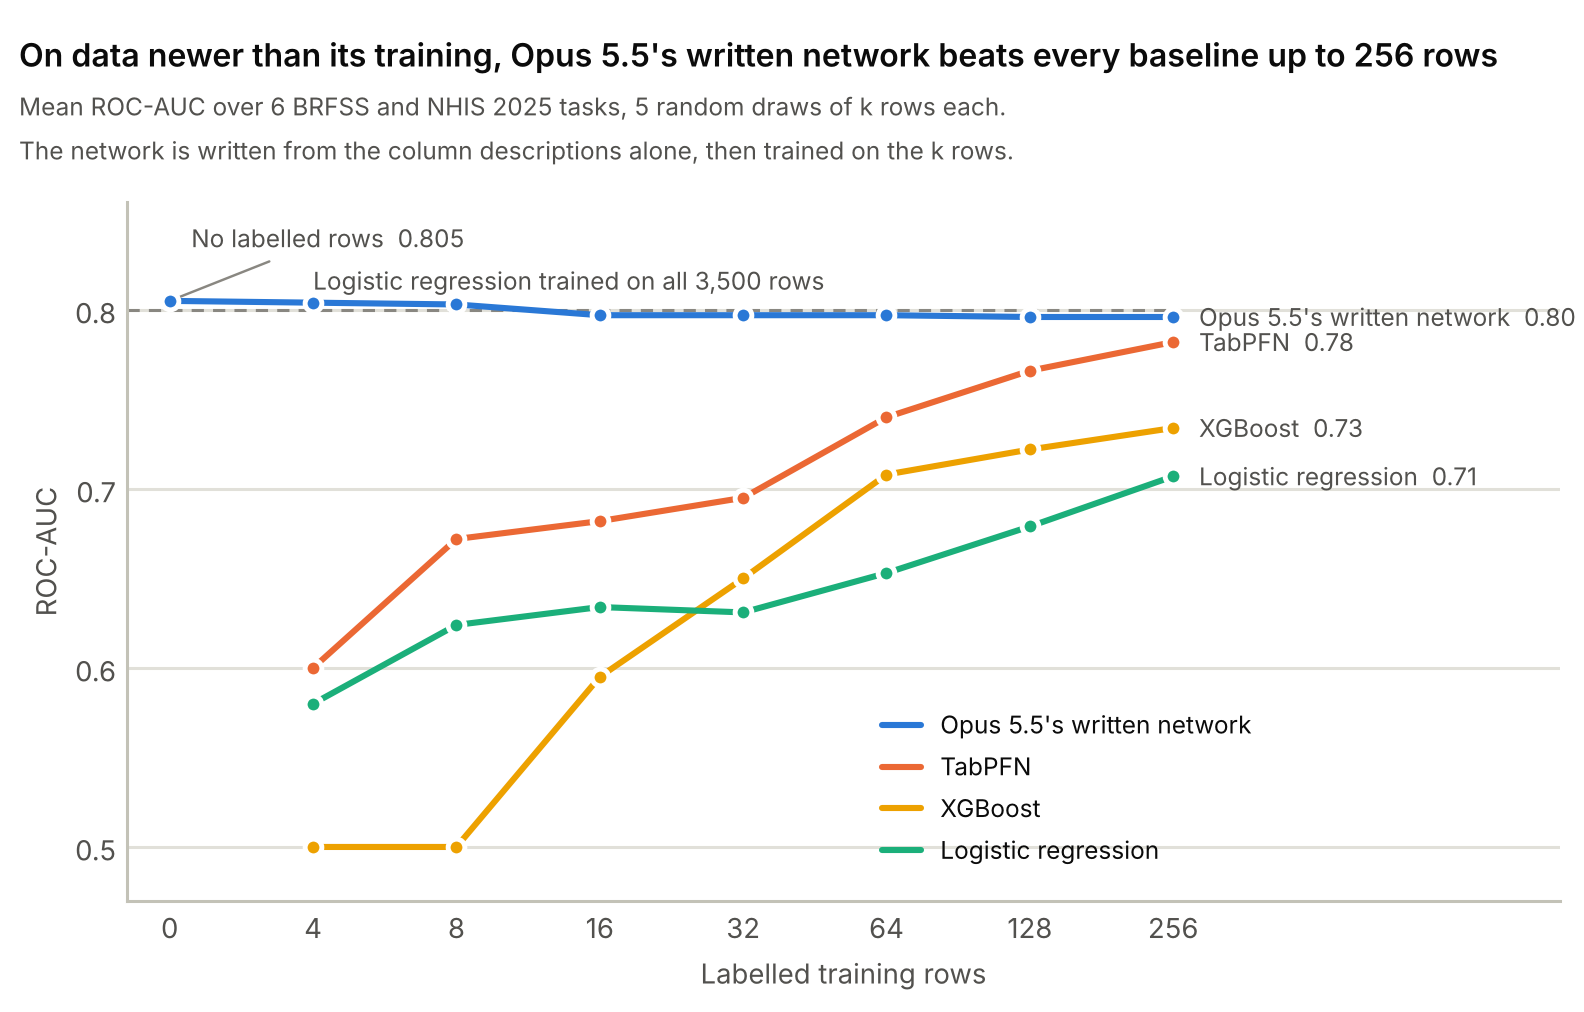
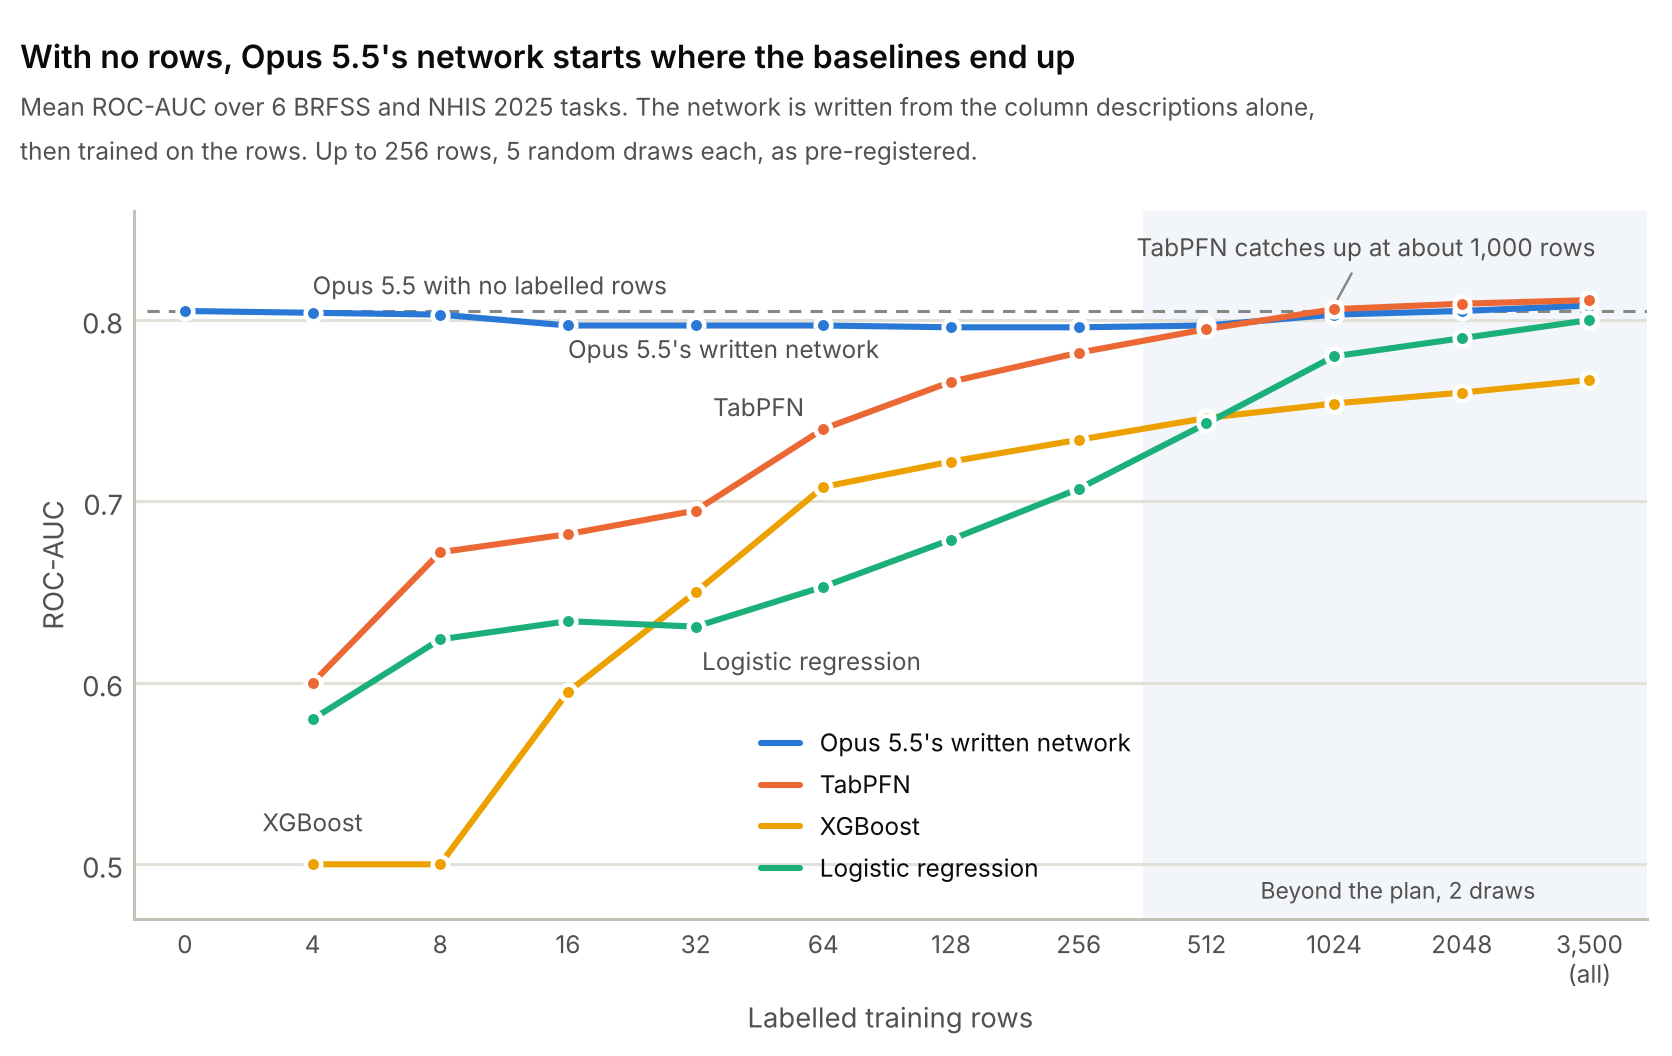
Extend first chart to all 3,500 rows, replace second figure with a before-and-after section
Claude-Session: https://claude.ai/code/session_01UWaSojPvKWekq97KCH9UDq

diff --git a/blog/llm-written-models/index.html b/blog/llm-written-models/index.html
@@ -52,7 +52,7 @@
   table.tasks td.n { color: var(--ink2); }
   .note { font-family: var(--sans); font-size: 13px; color: var(--muted); margin-top: 10px; }
 
-  .formula { font-size: 19px; margin: 6px 0 22px; overflow-x: auto; overflow-y: hidden; padding: 4px 0; }
+  .formula { font-size: clamp(12px, 1.6vw, 19px); margin: 6px 0 22px; overflow-x: auto; overflow-y: hidden; padding: 4px 0; }
   .written { margin: 28px 0 8px; }
   .written h3 { margin-bottom: 4px; }
   .unit { display: grid; grid-template-columns: minmax(0, 1.1fr) minmax(0, 1fr); gap: 28px; padding: 16px 0; border-bottom: 1px solid var(--rule); align-items: baseline; }
@@ -62,7 +62,7 @@
   .unit .nm { display: block; font-family: var(--sans); font-style: normal; font-size: 13px; color: var(--muted); margin-top: 2px; }
 
   .nums { font-family: var(--sans); border-top: 2px solid var(--ink); margin: 0; }
-  .nums div { display: grid; grid-template-columns: 76px 1fr; gap: 14px; padding: 12px 0; border-bottom: 1px solid var(--rule); align-items: baseline; }
+  .nums div { display: grid; grid-template-columns: 92px 1fr; gap: 14px; padding: 12px 0; border-bottom: 1px solid var(--rule); align-items: baseline; }
   .nums dt { font-size: 24px; font-weight: 600; font-variant-numeric: tabular-nums; letter-spacing: -0.01em; }
   .nums dd { margin: 0; font-size: 15px; color: var(--ink2); line-height: 1.45; }
 
@@ -71,6 +71,17 @@
   figure img { width: 100%; height: auto; display: block; }
   figcaption { font-family: var(--sans); font-size: 14px; color: var(--ink2); max-width: 70ch; margin-top: 8px; line-height: 1.5; }
 
+  .ledger { display: grid; grid-template-columns: minmax(0, 1fr) minmax(0, 1fr); gap: 56px; margin: 8px 0 10px; font-family: var(--sans); }
+  .ledger h3 { color: var(--ink); font-size: 17px; border-top: 2px solid var(--ink); padding-top: 12px; margin-bottom: 4px; }
+  .item { display: grid; grid-template-columns: minmax(0, 1fr) auto auto; column-gap: 14px; row-gap: 8px; padding: 14px 0 16px; border-bottom: 1px solid var(--rule); align-items: baseline; }
+  .item .lab { font-size: 15px; line-height: 1.4; }
+  .item .sub { display: block; font-size: 13px; color: var(--muted); margin-top: 1px; }
+  .item .vals { font-size: 14px; color: var(--ink2); font-variant-numeric: tabular-nums; white-space: nowrap; }
+  .item .d { font-size: 17px; font-weight: 600; font-variant-numeric: tabular-nums; min-width: 4.2em; text-align: right; }
+  .item .track { grid-column: 1 / -1; height: 8px; background: var(--tint); border-radius: 4px; overflow: hidden; }
+  .item .track span { display: block; height: 100%; border-radius: 4px; min-width: 2px; }
+  .item .track .neg { background: #e34948; }
+  .item .track .pos { background: var(--accent); }
   .cols2 { display: grid; grid-template-columns: 1fr 1fr; gap: 56px; }
   .cols2 h3 { color: var(--ink); font-size: 17px; border-top: 2px solid var(--ink); padding-top: 12px; }
   .cols2 ul { margin: 0; padding-left: 20px; }
@@ -78,8 +89,8 @@
   footer { border-top: 1px solid var(--rule); margin-top: 32px; padding: 26px 0 72px; font-family: var(--sans); font-size: 14px; color: var(--ink2); }
   footer p { max-width: 80ch; }
 
-  @media (max-width: 1000px) {
-    .row, .cols2 { grid-template-columns: minmax(0, 1fr); gap: 26px; }
+  @media (max-width: 760px) {
+    .row, .cols2, .ledger { grid-template-columns: minmax(0, 1fr); gap: 26px; }
   }
   @media (max-width: 860px) {
     .wrap { padding: 0 18px; }
@@ -110,13 +121,14 @@
       We asked Claude Opus 5.5 to write predictive models for health-survey tasks from the column descriptions alone,
       with no rows and no labels. On 2025 survey data released after its training cutoff, those models match logistic
       regression trained on 3,500 labelled rows, and they beat TabPFN, XGBoost and logistic regression at every budget
-      up to 256 rows. The knowledge is linear, though, and once written down, a few labelled rows did not improve it.
+      up to 256 rows. TabPFN needs about 1,000 rows to catch up. The knowledge is linear, though, and once written down,
+      a few labelled rows did not improve it.
     </div>
     <dl class="qa">
       <div><dt>Can it write a useful model with no data?</dt>
         <dd><strong>Yes.</strong> 0.805 AUC, the same as logistic regression on 3,500 rows.</dd></div>
       <div><dt>Does that beat a tabular foundation model?</dt>
-        <dd><strong>Yes.</strong> Ahead of TabPFN up to 256 rows, and on 17 of 17 tasks at 4 to 16 rows.</dd></div>
+        <dd><strong>Yes, until about 1,000 rows.</strong> At 4 to 16 rows it wins on 17 of 17 tasks.</dd></div>
       <div><dt>Can it learn by editing its own weights?</dt>
         <dd><strong>Not here.</strong> Its first draft was already as good as 3,500 rows. Editing it with 16 or 64
           labelled rows changed nothing.</dd></div>
@@ -190,22 +202,23 @@
 <section>
   <h2>It starts where the data ends</h2>
   <figure>
-    <a href="fig1_auc_vs_rows.png"><img src="fig1_auc_vs_rows.png" alt="Line chart of ROC-AUC against labelled training rows. Opus 5.5's written network stays near 0.80 from 0 to 256 rows. TabPFN rises from 0.60 to 0.78, XGBoost from 0.50 to 0.73, logistic regression from 0.58 to 0.71. A dashed line at 0.80 marks logistic regression trained on all 3,500 rows."></a>
-    <figcaption>Mean AUC over the six 2025 tasks. With no rows, the written network already sits at the level of
-    logistic regression trained on every row. TabPFN is still below it at 256.</figcaption>
+    <a href="fig1_auc_vs_rows.png"><img src="fig1_auc_vs_rows.png" alt="Line chart of ROC-AUC against labelled training rows, from 0 to all 3,500. Opus 5.5's written network stays near 0.80 throughout. TabPFN rises from 0.60 at 4 rows to 0.78 at 256 and passes the written network at about 1,000 rows, ending at 0.811. Logistic regression reaches 0.80 only with all 3,500 rows. XGBoost ends at 0.77."></a>
+    <figcaption>Mean AUC over the six 2025 tasks. The shaded part goes beyond the pre-registered range, with two
+    draws per point, and was added to see where the data catches up.</figcaption>
   </figure>
   <div class="row">
     <div>
-      <p class="lede">With zero rows the written network scores 0.805. Logistic regression needs all 3,500 rows to
-      reach 0.800.</p>
-      <p>Training the network on the rows, with a pull toward the written weights, keeps it there. Pooled with our
-      pilot (11 more datasets), Opus 5.5's priors beat TabPFN at 4 to 16 rows on 17 of 17 tasks, and on 13 of 13 once
-      the memorised datasets are removed.</p>
+      <p class="lede">With zero rows the written network scores 0.805. TabPFN needs about 1,000 labelled rows to match
+      it, and logistic regression needs all 3,500.</p>
+      <p>Training the network on the rows, with a pull toward the written weights, keeps it there. Past 1,000 rows
+      TabPFN edges ahead, reaching 0.811 with all 3,500 against 0.808 for the written network. Pooled with our pilot
+      (11 more datasets), Opus 5.5's priors beat TabPFN at 4 to 16 rows on 17 of 17 tasks, and on 13 of 13 once the
+      memorised datasets are removed.</p>
     </div>
     <dl class="nums">
       <div><dt>0.805</dt><dd>Opus 5.5's network, no labelled rows</dd></div>
-      <div><dt>0.800</dt><dd>Logistic regression on all 3,500 rows</dd></div>
-      <div><dt>0.782</dt><dd>TabPFN on 256 rows</dd></div>
+      <div><dt>~1,000</dt><dd>Rows TabPFN needs to catch up</dd></div>
+      <div><dt>3,500</dt><dd>Rows logistic regression needs to catch up</dd></div>
       <div><dt>17/17</dt><dd>Tasks where Opus 5.5's priors beat TabPFN at 4 to 16 rows</dd></div>
     </dl>
   </div>
@@ -213,22 +226,32 @@
 
 <section>
   <h2>What carries it</h2>
-  <figure>
-    <a href="fig2_what_carries_the_gain.png"><img src="fig2_what_carries_the_gain.png" alt="Dot plot of mean AUC. With no labelled rows, the written network, its straight-line version, the linear priors and direct scoring all sit near 0.80, while hiding column names gives 0.615 and shuffling columns 0.565. With 16 or 64 rows, the first draft, the edited network and the network revised without rows all sit near 0.80, gradient descent at 0.798 and TabPFN at 0.718."></a>
-    <figcaption>Mean AUC over the six tasks. Everything that keeps the knowledge lands near 0.80, and nothing added on top
-    moves it. Remove the knowledge and the score drops toward chance.</figcaption>
-  </figure>
+  <div class="ledger">
+    <div class="col">
+      <h3>Take the knowledge away</h3>
+      <div class="item"><div class="lab">Move the written weights onto shuffled columns</div><div class="vals">0.805 → 0.565</div><div class="d">−0.240</div><div class="track"><span class="neg" style="width:96.0%"></span></div></div>
+      <div class="item"><div class="lab">Hide the column names while it writes</div><div class="vals">0.802 → 0.615</div><div class="d">−0.187</div><div class="track"><span class="neg" style="width:74.8%"></span></div></div>
+      <div class="item"><div class="lab">Same network, started from random weights<span class="sub">with 4 to 32 rows</span></div><div class="vals">0.800 → 0.617</div><div class="d">−0.183</div><div class="track"><span class="neg" style="width:73.2%"></span></div></div>
+    </div>
+    <div class="col">
+      <h3>Add something on top</h3>
+      <div class="item"><div class="lab">Hidden units instead of straight lines</div><div class="vals">0.802 → 0.805</div><div class="d">+0.003</div><div class="track"><span class="pos" style="width:1.2%"></span></div></div>
+      <div class="item"><div class="lab">Two rounds of editing it with the rows<span class="sub">with 16 or 64 rows</span></div><div class="vals">0.804 → 0.804</div><div class="d">+0.000</div><div class="track"><span class="pos" style="width:0.8%"></span></div></div>
+      <div class="item"><div class="lab">Gradient descent on the same rows<span class="sub">with 16 or 64 rows</span></div><div class="vals">0.804 → 0.798</div><div class="d">−0.005</div><div class="track"><span class="neg" style="width:2.0%"></span></div></div>
+      <div class="item"><div class="lab">Scoring each row directly instead<span class="sub">on 300 test rows</span></div><div class="vals">0.807 → 0.802</div><div class="d">−0.004</div><div class="track"><span class="neg" style="width:1.6%"></span></div></div>
+    </div>
+  </div>
+  <p class="note">Mean AUC over the six tasks, before and after each change. Every bar uses the same scale, so a
+  change of 0.25 would fill its track.</p>
   <div class="row">
     <div>
-      <p>It is knowledge, not structure. Move the same weights onto shuffled columns and the AUC falls to 0.565. Hide
-      the column names and most of the gain disappears on the mental-health tasks. Start the same network from random
-      weights and it loses 0.18.</p>
+      <p>The value is in what the model knows, not in how the model is built. Remove the knowledge and the score
+      falls toward chance. Everything added on top, from hidden units to feedback rounds, leaves it where it was.</p>
     </div>
     <div>
-      <p>The hidden layer, though, adds almost nothing. Units like the ones above read like an epidemiologist's notes,
-      yet replacing each with its own straight-line approximation costs only 0.003. Asking Opus 5.5 to predict each row
-      directly gives the same accuracy, but writing the model takes one call per task instead of one per row, and you
-      can read it.</p>
+      <p>The hidden units read like an epidemiologist's notes, yet together they add 0.003. Writing the model and
+      scoring rows directly land at the same accuracy, but writing takes one call per task instead of one per row,
+      and you can read the result.</p>
     </div>
   </div>
 </section>
@@ -267,8 +290,8 @@
     <div>
       <h3>What this shows</h3>
       <ul>
-        <li>An LLM's knowledge, written down as a model, transfers to genuinely new data, and on these tasks it is
-          worth thousands of labels.</li>
+        <li>An LLM's knowledge, written down as a model, transfers to genuinely new data. On these tasks it is worth
+          about 1,000 labelled rows to TabPFN and 3,500 to logistic regression.</li>
         <li>The result holds whether the knowledge is written as priors, as a network, or as direct predictions.</li>
       </ul>
     </div>
